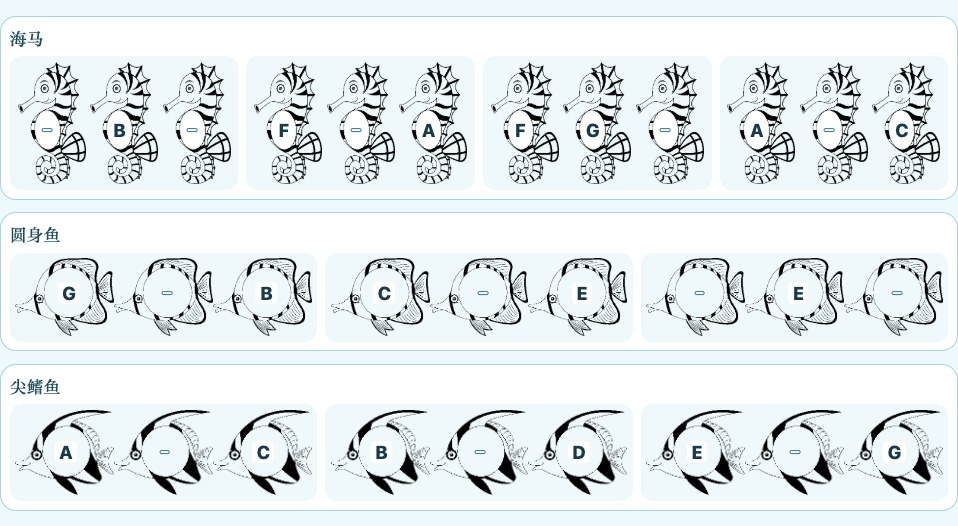
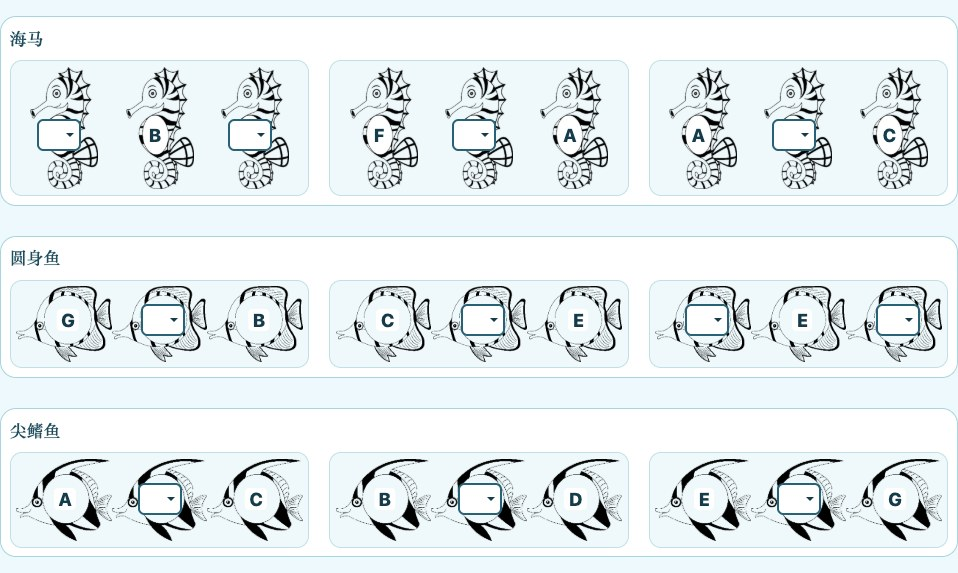
调整海底世界九题布局与下拉框

diff --git a/sea_neighbors.css b/sea_neighbors.css
@@ -4,7 +4,7 @@ body[data-activity="sea-neighbors"] .paper {
 }
 #activity-board {
   display: grid;
-  gap: .8rem;
+  gap: clamp(1.25rem, 3vw, 2rem);
   padding-block: 1rem;
 }
 .creature-row {
@@ -14,20 +14,21 @@ body[data-activity="sea-neighbors"] .paper {
   padding: .55rem;
 }
 .creature-row h2 {
-  margin: 0 0 .4rem;
+  margin: 0 0 .65rem;
   color: #204d5d;
   font-size: 1.05rem;
 }
 .creature-groups {
   display: grid;
   grid-template-columns: repeat(auto-fit, minmax(min(100%, 190px), 1fr));
-  gap: .5rem;
+  gap: clamp(.85rem, 2vw, 1.5rem);
 }
 .creature-group {
   display: grid;
   grid-template-columns: repeat(3, minmax(44px, 1fr));
   align-items: center;
   padding: .35rem;
+  border: 1px solid #c2dfe6;
   border-radius: .75rem;
   background: #eff9fb;
 }
@@ -65,7 +66,25 @@ body[data-activity="sea-neighbors"] .paper {
   white-space: nowrap;
 }
 .creature-belly:has(select) .belly-label {
-  box-shadow: 0 0 0 1px #33768b;
+  position: relative;
+  box-sizing: border-box;
+  display: grid;
+  place-items: center;
+  width: 44px;
+  min-height: 32px;
+  padding: 0 15px 0 3px;
+  border: 2px solid #286276;
+  border-radius: .4rem;
+  pointer-events: none;
+}
+.creature-belly:has(select) .belly-label::after {
+  content: "";
+  position: absolute;
+  right: 5px;
+  top: 50%;
+  transform: translateY(-25%);
+  border: 4px solid transparent;
+  border-top-color: #163b4a;
 }
 .belly-label.answered {
   background: #cceef7;
@@ -106,9 +125,6 @@ body[data-activity="sea-neighbors"] .paper {
   white-space: nowrap;
 }
 @media (min-width: 710px), print {
-  [data-species="seahorse"] .creature-groups {
-    grid-template-columns: repeat(4, minmax(0, 1fr));
-  }
   .creature-groups {
     grid-template-columns: repeat(3, minmax(0, 1fr));
   }

diff --git a/sea-neighbors.html b/sea-neighbors.html
@@ -51,7 +51,7 @@
       <section class="paper">
         <div class="sea-progress">
         <div class="cloud cloud-one" id="student-label"></div>
-        <div class="cloud cloud-two">已填 <strong id="count">0</strong> / 12</div>
+        <div class="cloud cloud-two">已填 <strong id="count">0</strong> / <span id="blank-total"></span></div>
         </div>
         <div id="activity-board"></div>
       </section>

diff --git a/AGENTS.md b/AGENTS.md
@@ -183,7 +183,7 @@ P-005 is a user-requested exception to the shared third/sixth-error contract. Co
 
 ## P-007 neighboring note names, 2026-11-23
 
-`sea-neighbors.html` groups the original ten three-letter prompts by seahorse, round fish, and pointed-fin fish. Preserve the twelve blank positions and the repeating A–G order, including G–A–B and F–G–A. Use uppercase consistently because this exercise assesses letter order. Keep each triple intact when groups wrap. High-contrast uppercase labels sit on each creature’s belly and display the selected letter. Native select controls support correction and clearing; shared third/sixth-error hints apply per blank. Keep artwork proportions, 44px answer targets, local display profiles, user-triggered speech, session-only answers, and celebration.
+`sea-neighbors.html` groups nine three-letter prompts evenly across seahorses, round fish, and pointed-fin fish. Preserve the eleven blank positions and the repeating A–G order, including G–A–B and F–G–A. Use uppercase consistently because this exercise assesses letter order. Keep each triple intact in its own bordered panel, with visible spacing between panels and species. High-contrast uppercase labels sit on each creature’s belly and display the selected letter. Empty selects show an outlined white field and a dropdown arrow on the belly. The arrow stays visible after selection. Native select controls support correction and clearing; shared third/sixth-error hints apply per blank. Keep artwork proportions, 44px answer targets, local display profiles, user-triggered speech, session-only answers, and celebration.
 
 ## Staff Race
 

diff --git a/docs/progress_tracker.md b/docs/progress_tracker.md
@@ -1115,3 +1115,20 @@ and the [complete P-007 activity](https://fangjiaqifion.github.io/music-activity
 The README reflects publication. The game scope, asset provenance, interaction
 contract and operating procedures remain current. Physical devices, Safari and
 human-audible speech were outside the verification.
+
+## P-007 question spacing and answer fields, 2026-11-26
+
+The activity now has nine prompts and eleven answer fields. The shortened
+seahorse section keeps the F–G–A prompt with its middle blank and drops the
+second F–G–A prompt. Each creature section has three separately bordered
+question panels. Each blank starts as a white outlined field with a dropdown
+arrow on the creature's belly, and selected letters remain visible in place.
+The progress denominator is derived from the rendered fields.
+
+Local package `ad66c7abcc56` passed the P-007 browser suite at six viewport
+sizes, including keyboard focus, blank checking, wrong answers, completion,
+and reset. The 41 Node tests and 120 packaged responsive checks passed.
+Chrome generated a one-page PDF. The catalog cover was refreshed. Physical
+devices and native iOS dropdown interaction remain unverified. The Studio
+guide and verification and responsive procedures were updated. The Studio
+overview and workspace and games guides were reviewed and required no changes.

diff --git a/docs/development.md b/docs/development.md
@@ -219,4 +219,4 @@ Open `/fish-keys.html` and `/key-names.html`. Run `BASE_URL=<runtime-directory-u
 
 ## P-007 verification
 
-Run `BASE_URL=<runtime-directory-url> node tests/sea_neighbors_browser.mjs` for source prompt and blank position checks, shared hint thresholds, completion/reset, speech dispatch, keyboard focus, emulated touch, and six viewport captures. Regenerate its menu image with `BASE_URL=<source-origin> node scripts/activity_previews.mjs sea-neighbors`. The packaged responsive matrix includes 114 cases.
+Run `BASE_URL=<runtime-directory-url> node tests/sea_neighbors_browser.mjs` for the nine prompts, eleven blank positions, visible dropdowns, question spacing, shared hint thresholds, completion/reset, speech dispatch, keyboard focus, emulated touch, and six viewport captures. Regenerate its menu image with `BASE_URL=<source-origin> node scripts/activity_previews.mjs sea-neighbors`. The packaged responsive matrix includes 114 cases.

diff --git a/docs/responsive_design.md b/docs/responsive_design.md
@@ -73,4 +73,4 @@ P-005 lettering uses original-image SVG coordinates and measured belly bounds (x
 
 ### P-007 creature rows
 
-Group the ten prompts into three creature sections. At tablet and desktop sizes keep each species on one line. On narrower screens reflow complete triples within their species section. Preserve the artwork's native proportions and 44px controls without horizontal scrolling.
+Group the nine prompts evenly into three creature sections. Give each intact triple its own bordered panel with visible gaps between neighboring panels and species. Keep the white dropdown field and arrow visible on each answerable creature. At tablet and desktop sizes keep each species on one line. On narrower screens reflow complete triples within their species section. Preserve the artwork's native proportions and 44px controls without horizontal scrolling.
